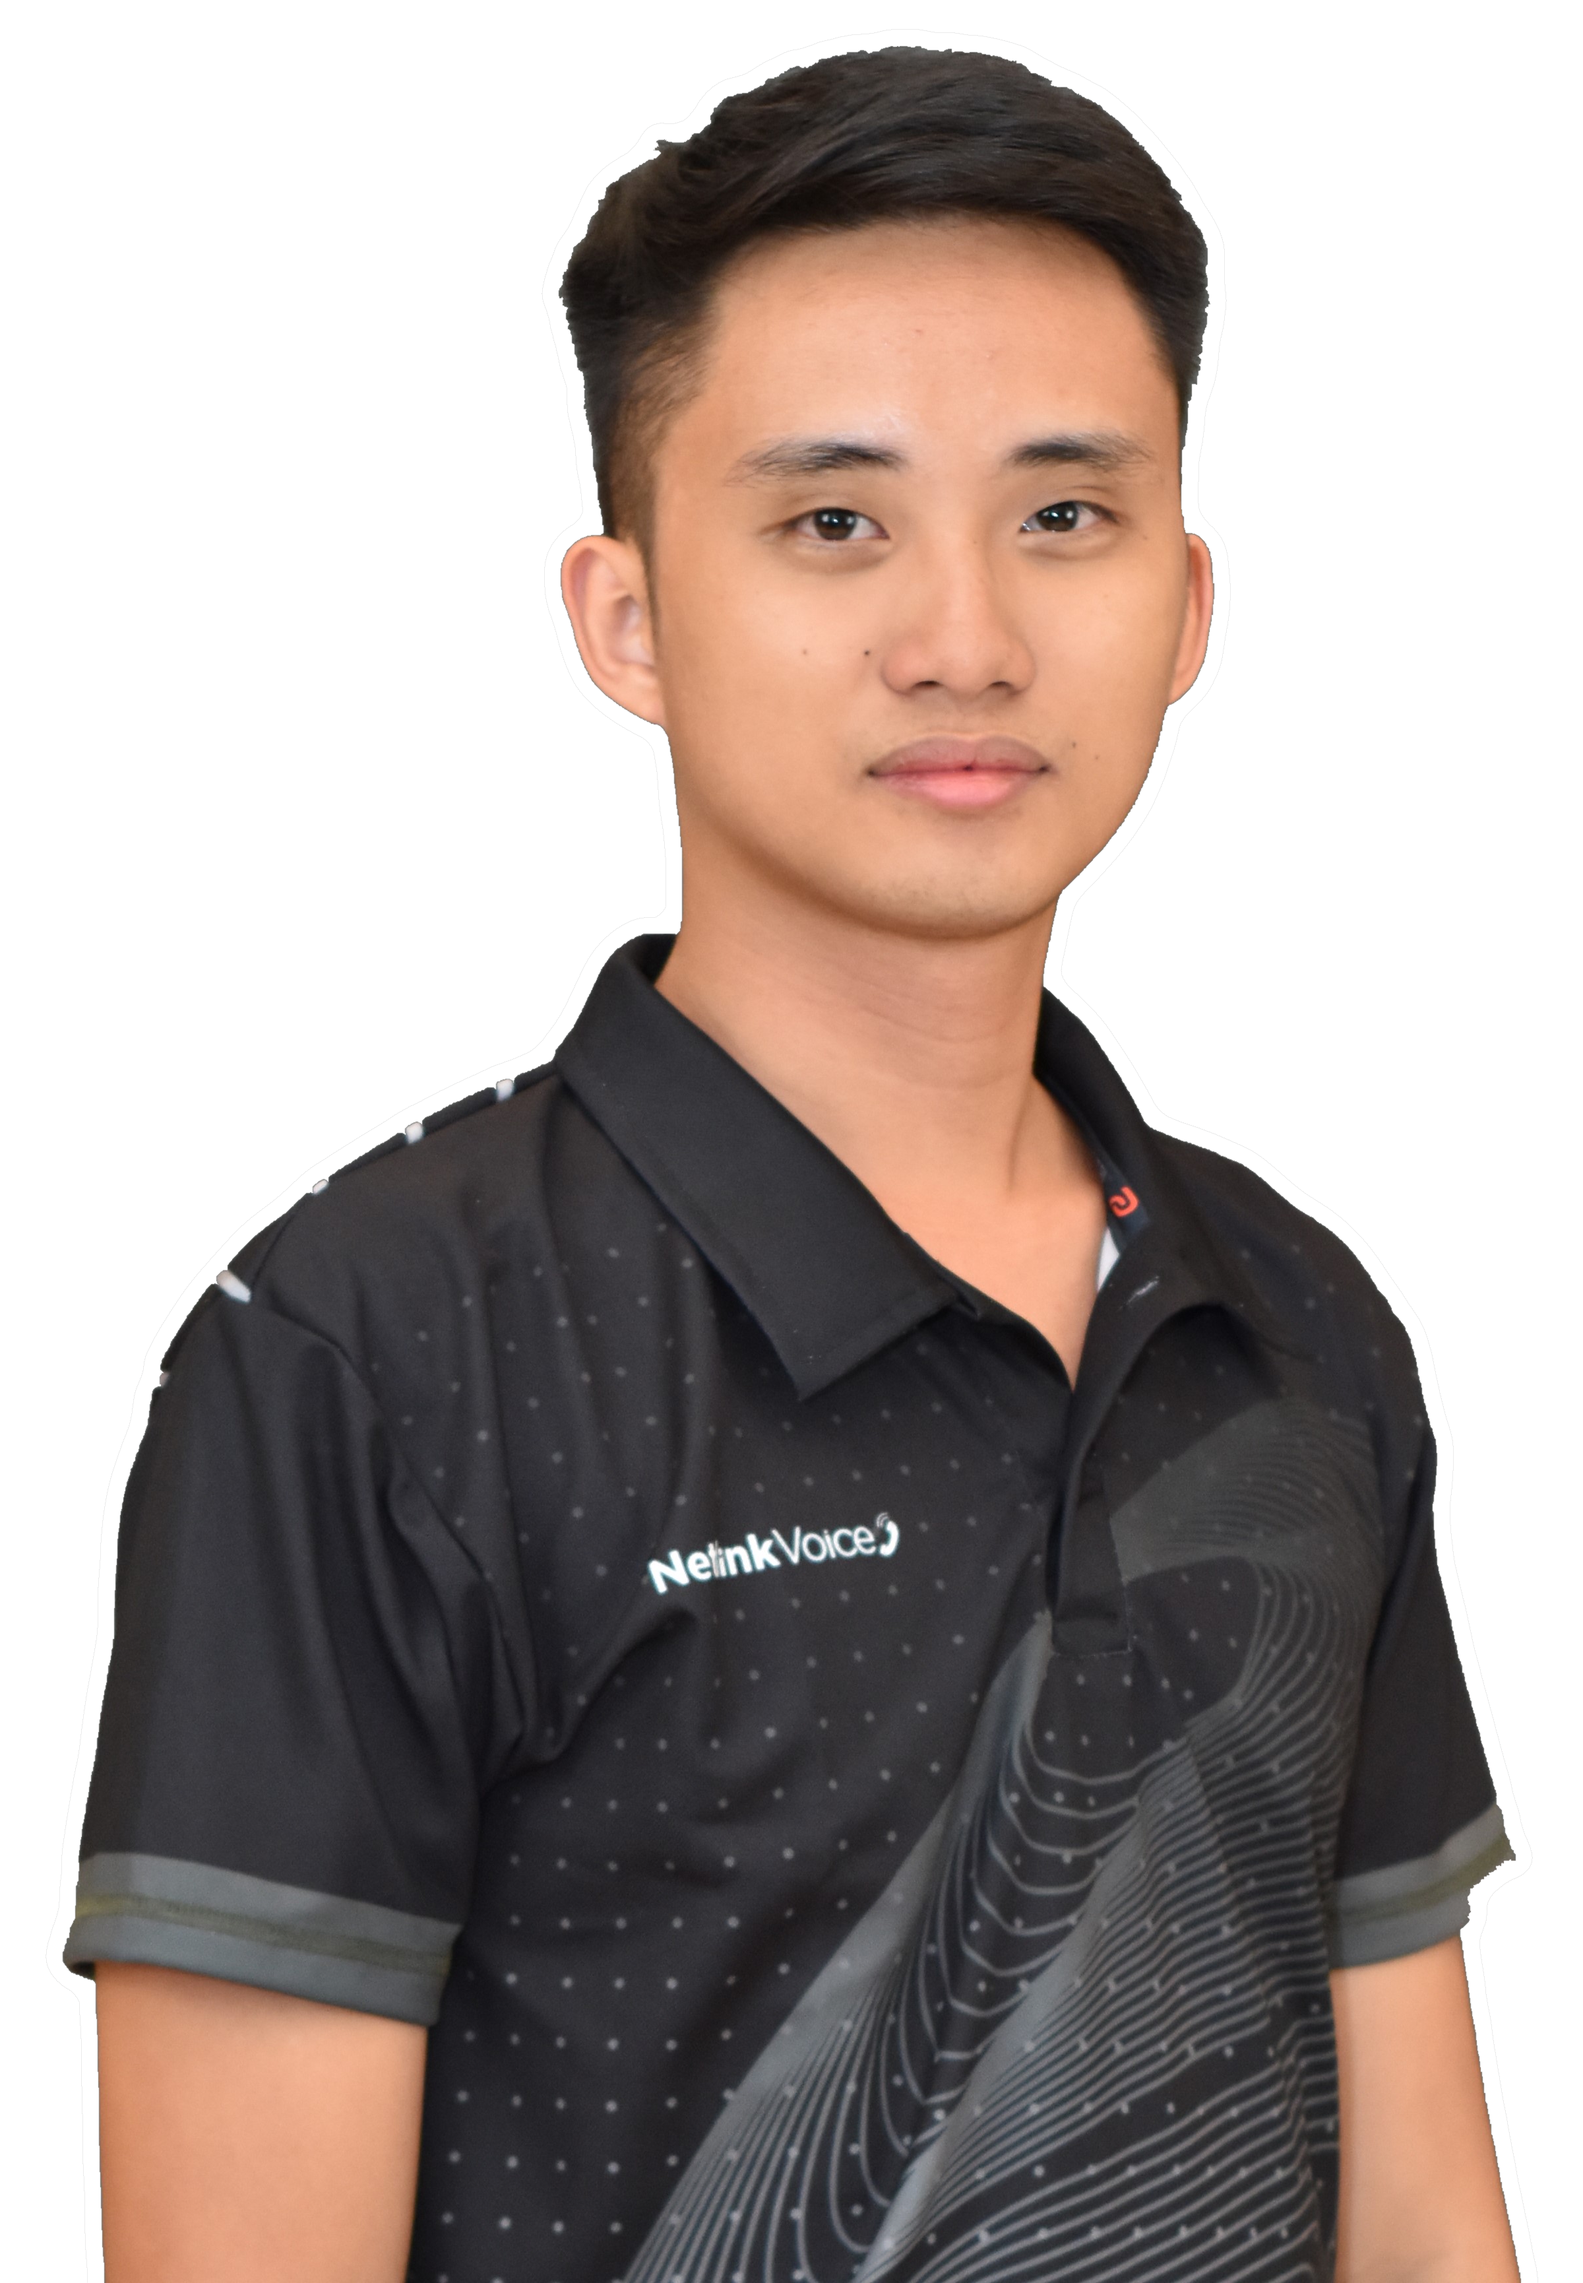
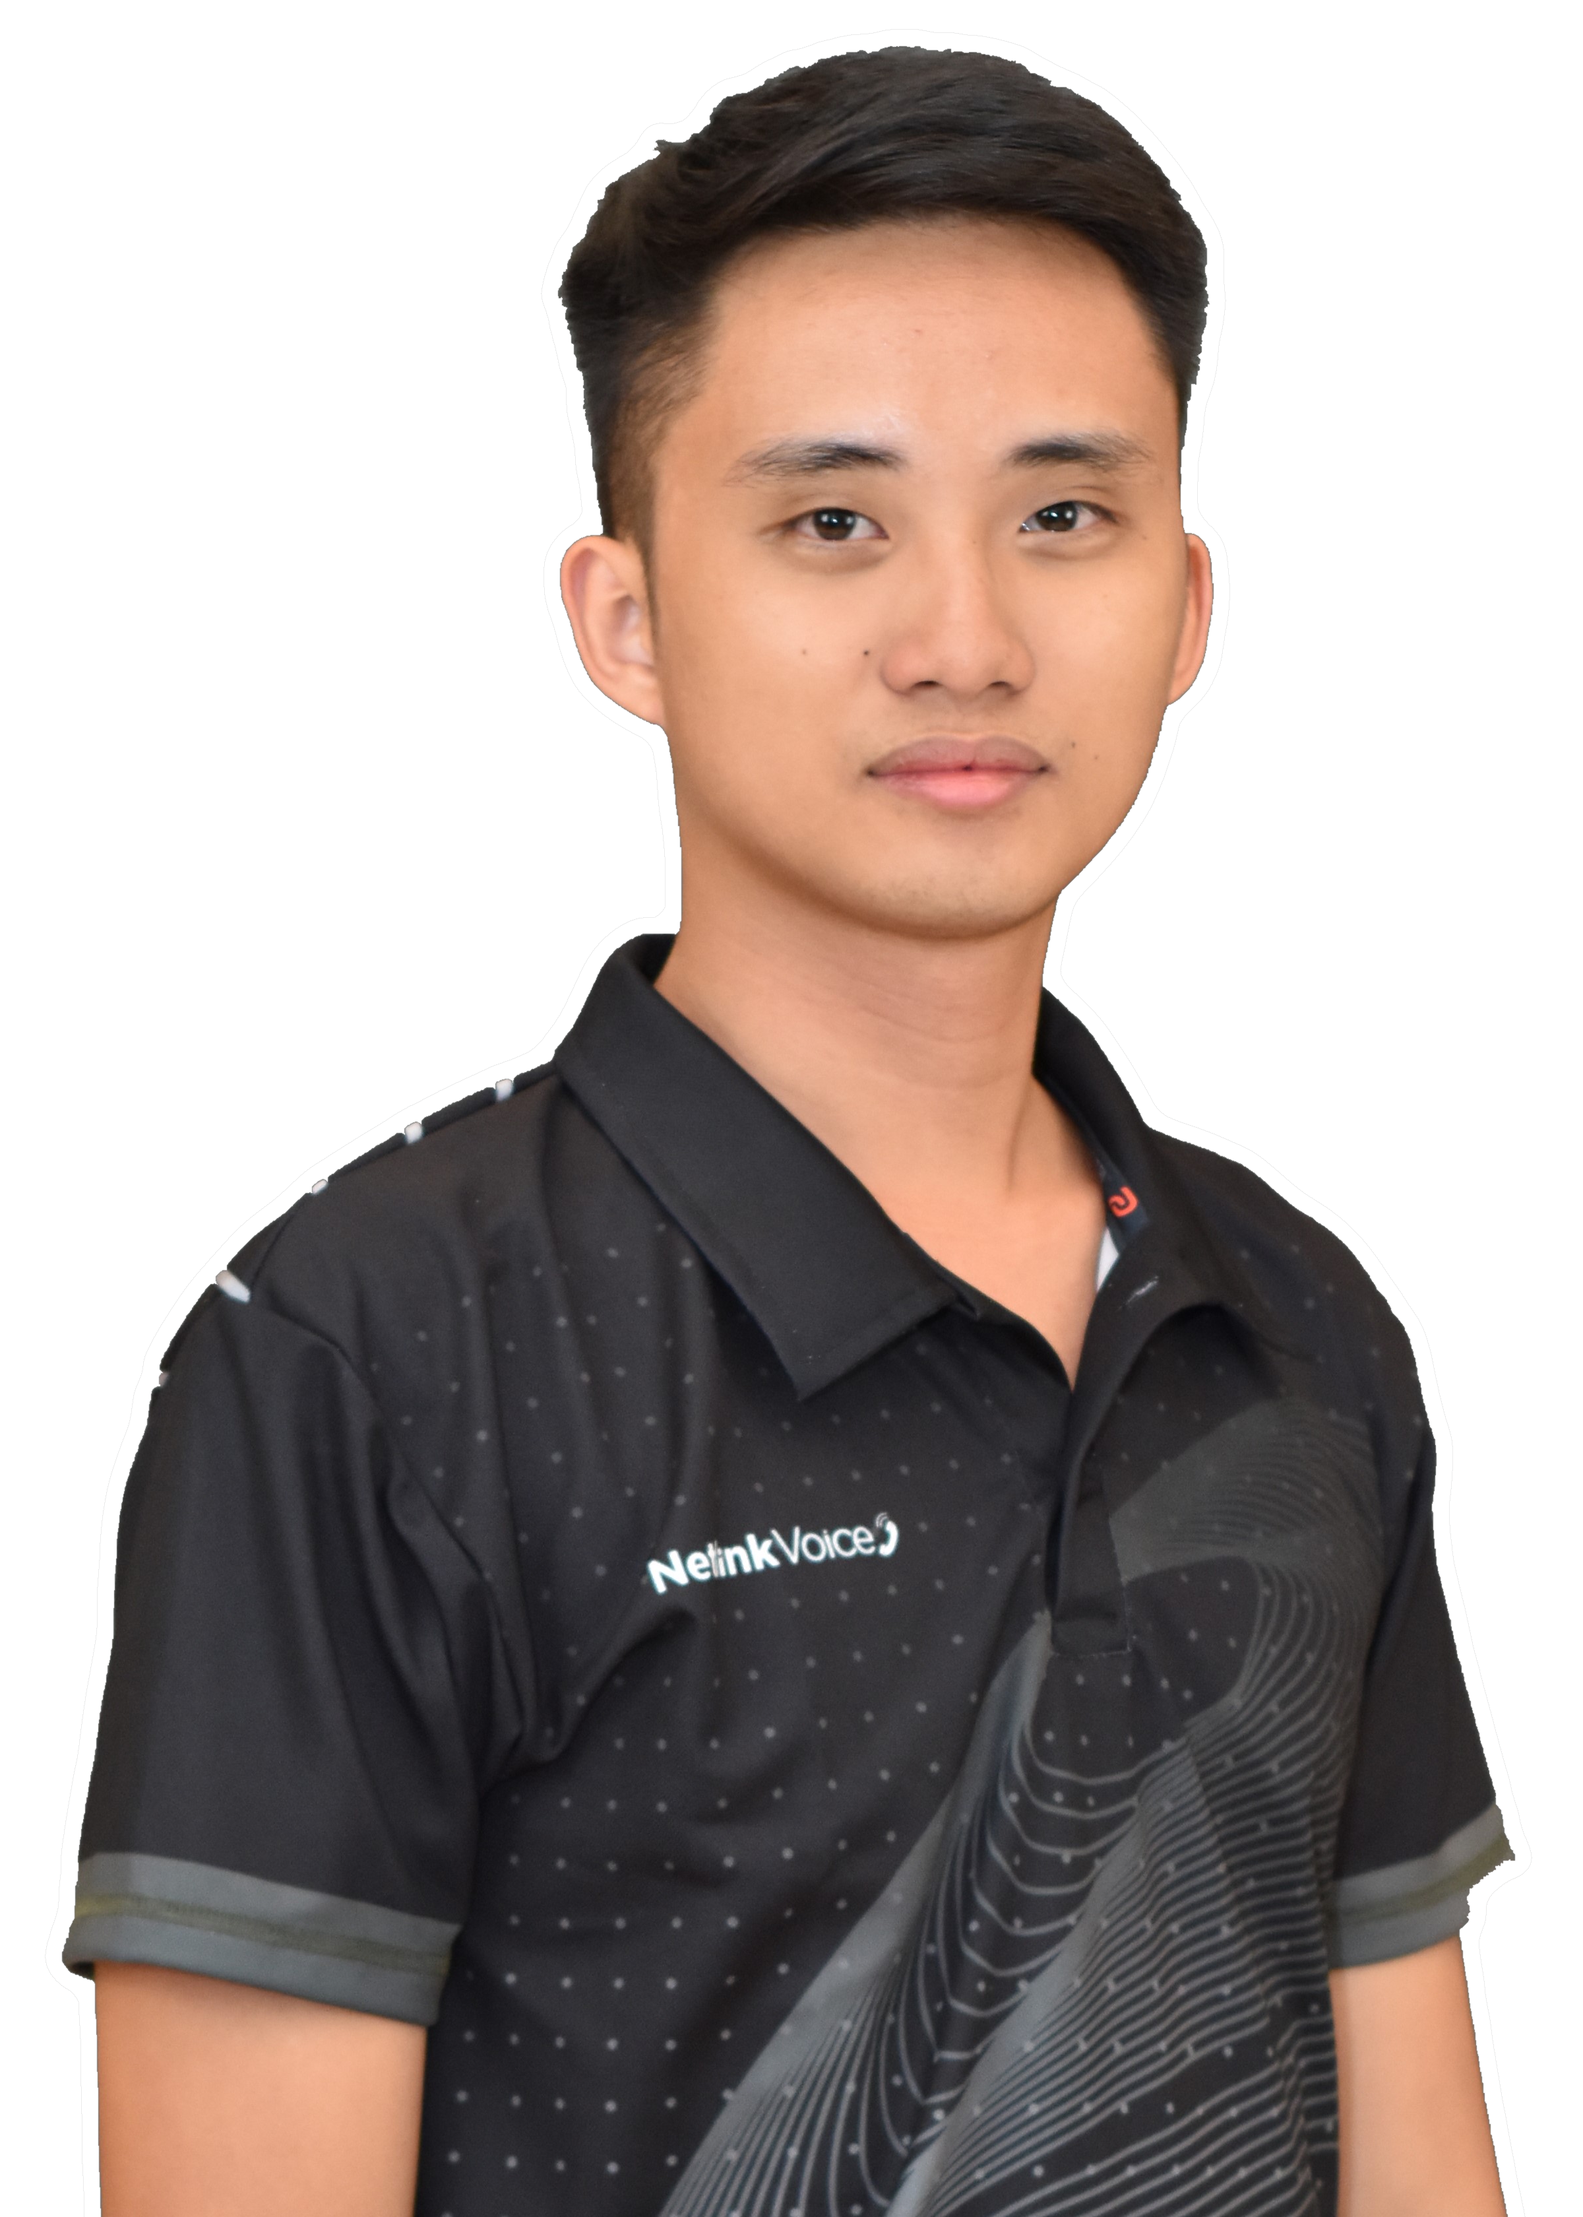
refactor: resize image, rename function

diff --git a/app/page.tsx b/app/page.tsx
@@ -3,7 +3,6 @@ import { HeroTitle } from "@/components/hero-title";
 import { Section, SectionHeader } from "@/components/section";
 import { buttonVariants } from "@/components/ui/button";
 import { Item, ItemContent, ItemGroup, ItemTitle } from "@/components/ui/item";
-import { Separator } from "@/components/ui/separator";
 import { projects } from "@/lib/projects";
 import { techStacks } from "@/lib/tech-stach";
 import { MoveRightIcon } from "lucide-react";
@@ -26,7 +25,7 @@ export default function Home() {
             src="/headshot.png"
             alt="Headshot"
             width={400}
-            height={600}
+            height={560}
             priority
           />
         </Section>
@@ -37,7 +36,7 @@ export default function Home() {
               <Heading as="h2">What I work with</Heading>
             </SectionHeader>
 
-            {techStackScope()}
+            {techStackList()}
           </Section>
         </div>
 
@@ -57,31 +56,31 @@ function featureProjects() {
   return (
     <div className="relative grid gap-5 sm:grid-cols-2">
       {Array.from(projects).map(([id, project]) => (
-        <article key={id} className="border-primary border p-9">
+        <article key={id} className="border-primary flex flex-col border p-9">
           <Heading as="h3" className="mb-5">
             {project.title}
           </Heading>
-          <p>{project.sub_title}</p>
+          <p className="mb-6">{project.sub_title}</p>
 
-          <Separator className="bg-primary my-6" />
-
-          <a
-            href={project.link}
-            target="_blank"
-            className={buttonVariants({
-              variant: "outline",
-              className: "border-primary! block rounded-none bg-transparent",
-            })}
-          >
-            Visit <MoveRightIcon />
-          </a>
+          <div className="border-primary mt-auto border-t-2 border-dashed pt-6">
+            <a
+              href={project.link}
+              target="_blank"
+              className={buttonVariants({
+                variant: "outline",
+                className: "border-primary! block rounded-none bg-transparent",
+              })}
+            >
+              Visit <MoveRightIcon />
+            </a>
+          </div>
         </article>
       ))}
     </div>
   );
 }
 
-function techStackList(items: string[]) {
+function techStackTags(items: string[]) {
   return (
     <ItemGroup className="flex flex-row flex-wrap items-center gap-2 rounded-full">
       {items.map((item) => (
@@ -95,7 +94,7 @@ function techStackList(items: string[]) {
   );
 }
 
-function techStackScope() {
+function techStackList() {
   return (
     <ul className="divide-primary border-primary divide-y-4 divide-dashed border-y-4 border-dashed">
       {Array.from(techStacks).map(([id, tech], index) => (
@@ -112,19 +111,19 @@ function techStackScope() {
             <Heading as="h6" className="uppercase">
               Frameworks
             </Heading>
-            {techStackList(tech.frameworks)}
+            {techStackTags(tech.frameworks)}
           </div>
           <div className="flex items-center gap-4">
             <Heading as="h6" className="uppercase">
               Langauges
             </Heading>
-            {techStackList(tech.languages)}
+            {techStackTags(tech.languages)}
           </div>
           <div className="flex items-center gap-4">
             <Heading as="h6" className="uppercase">
               Tools
             </Heading>
-            {techStackList(tech.tools)}
+            {techStackTags(tech.tools)}
           </div>
         </li>
       ))}
